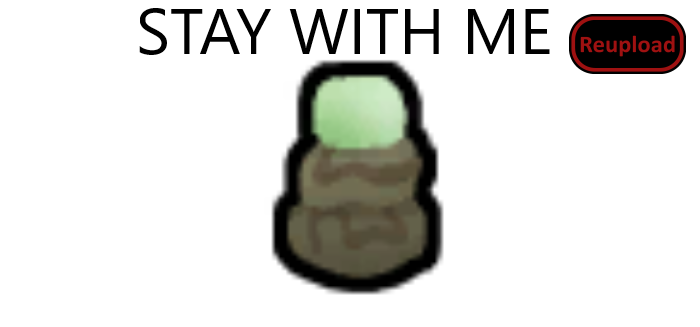
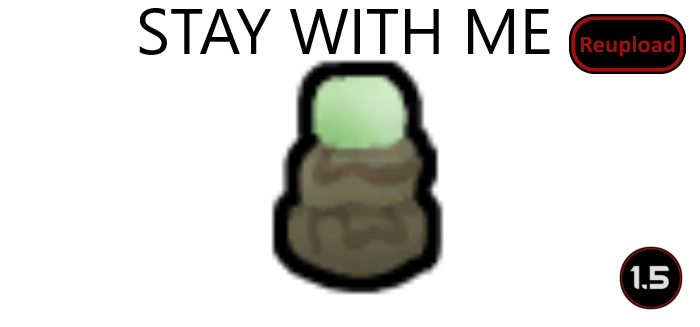
Mod updated for 1.5 and passed autotests

Changed region(s): [[0.87, 0.7339, 0.99, 0.948]]

diff --git a/README.md b/README.md
@@ -28,10 +28,13 @@ Report bugs in the comments if you somehow find any.
 
 -  See if the the error persists if you just have this mod and its requirements active.
 -  If not, try adding your other mods until it happens again.
--  Post your error-log using https://steamcommunity.com/workshop/filedetails/?id=818773962]HugsLib and command Ctrl+F12
+-  Post your error-log using https://steamcommunity.com/workshop/filedetails/?id=818773962]HugsLib or the standalone https://steamcommunity.com/sharedfiles/filedetails/?id=2873415404]Uploader and command Ctrl+F12
 -  For best support, please use the Discord-channel for error-reporting.
 -  Do not report errors by making a discussion-thread, I get no notification of that.
 -  If you have the solution for a problem, please post it to the GitHub repository.
+-  Use https://github.com/RimSort/RimSort/releases/latest]RimSort to sort your mods
 
 
+
+https://steamcommunity.com/sharedfiles/filedetails/changelog/2738025596]![Image](https://img.shields.io/github/v/release/emipa606/EternalPods?label=latest%20version&style=plastic&color=9f1111&labelColor=black)
 
